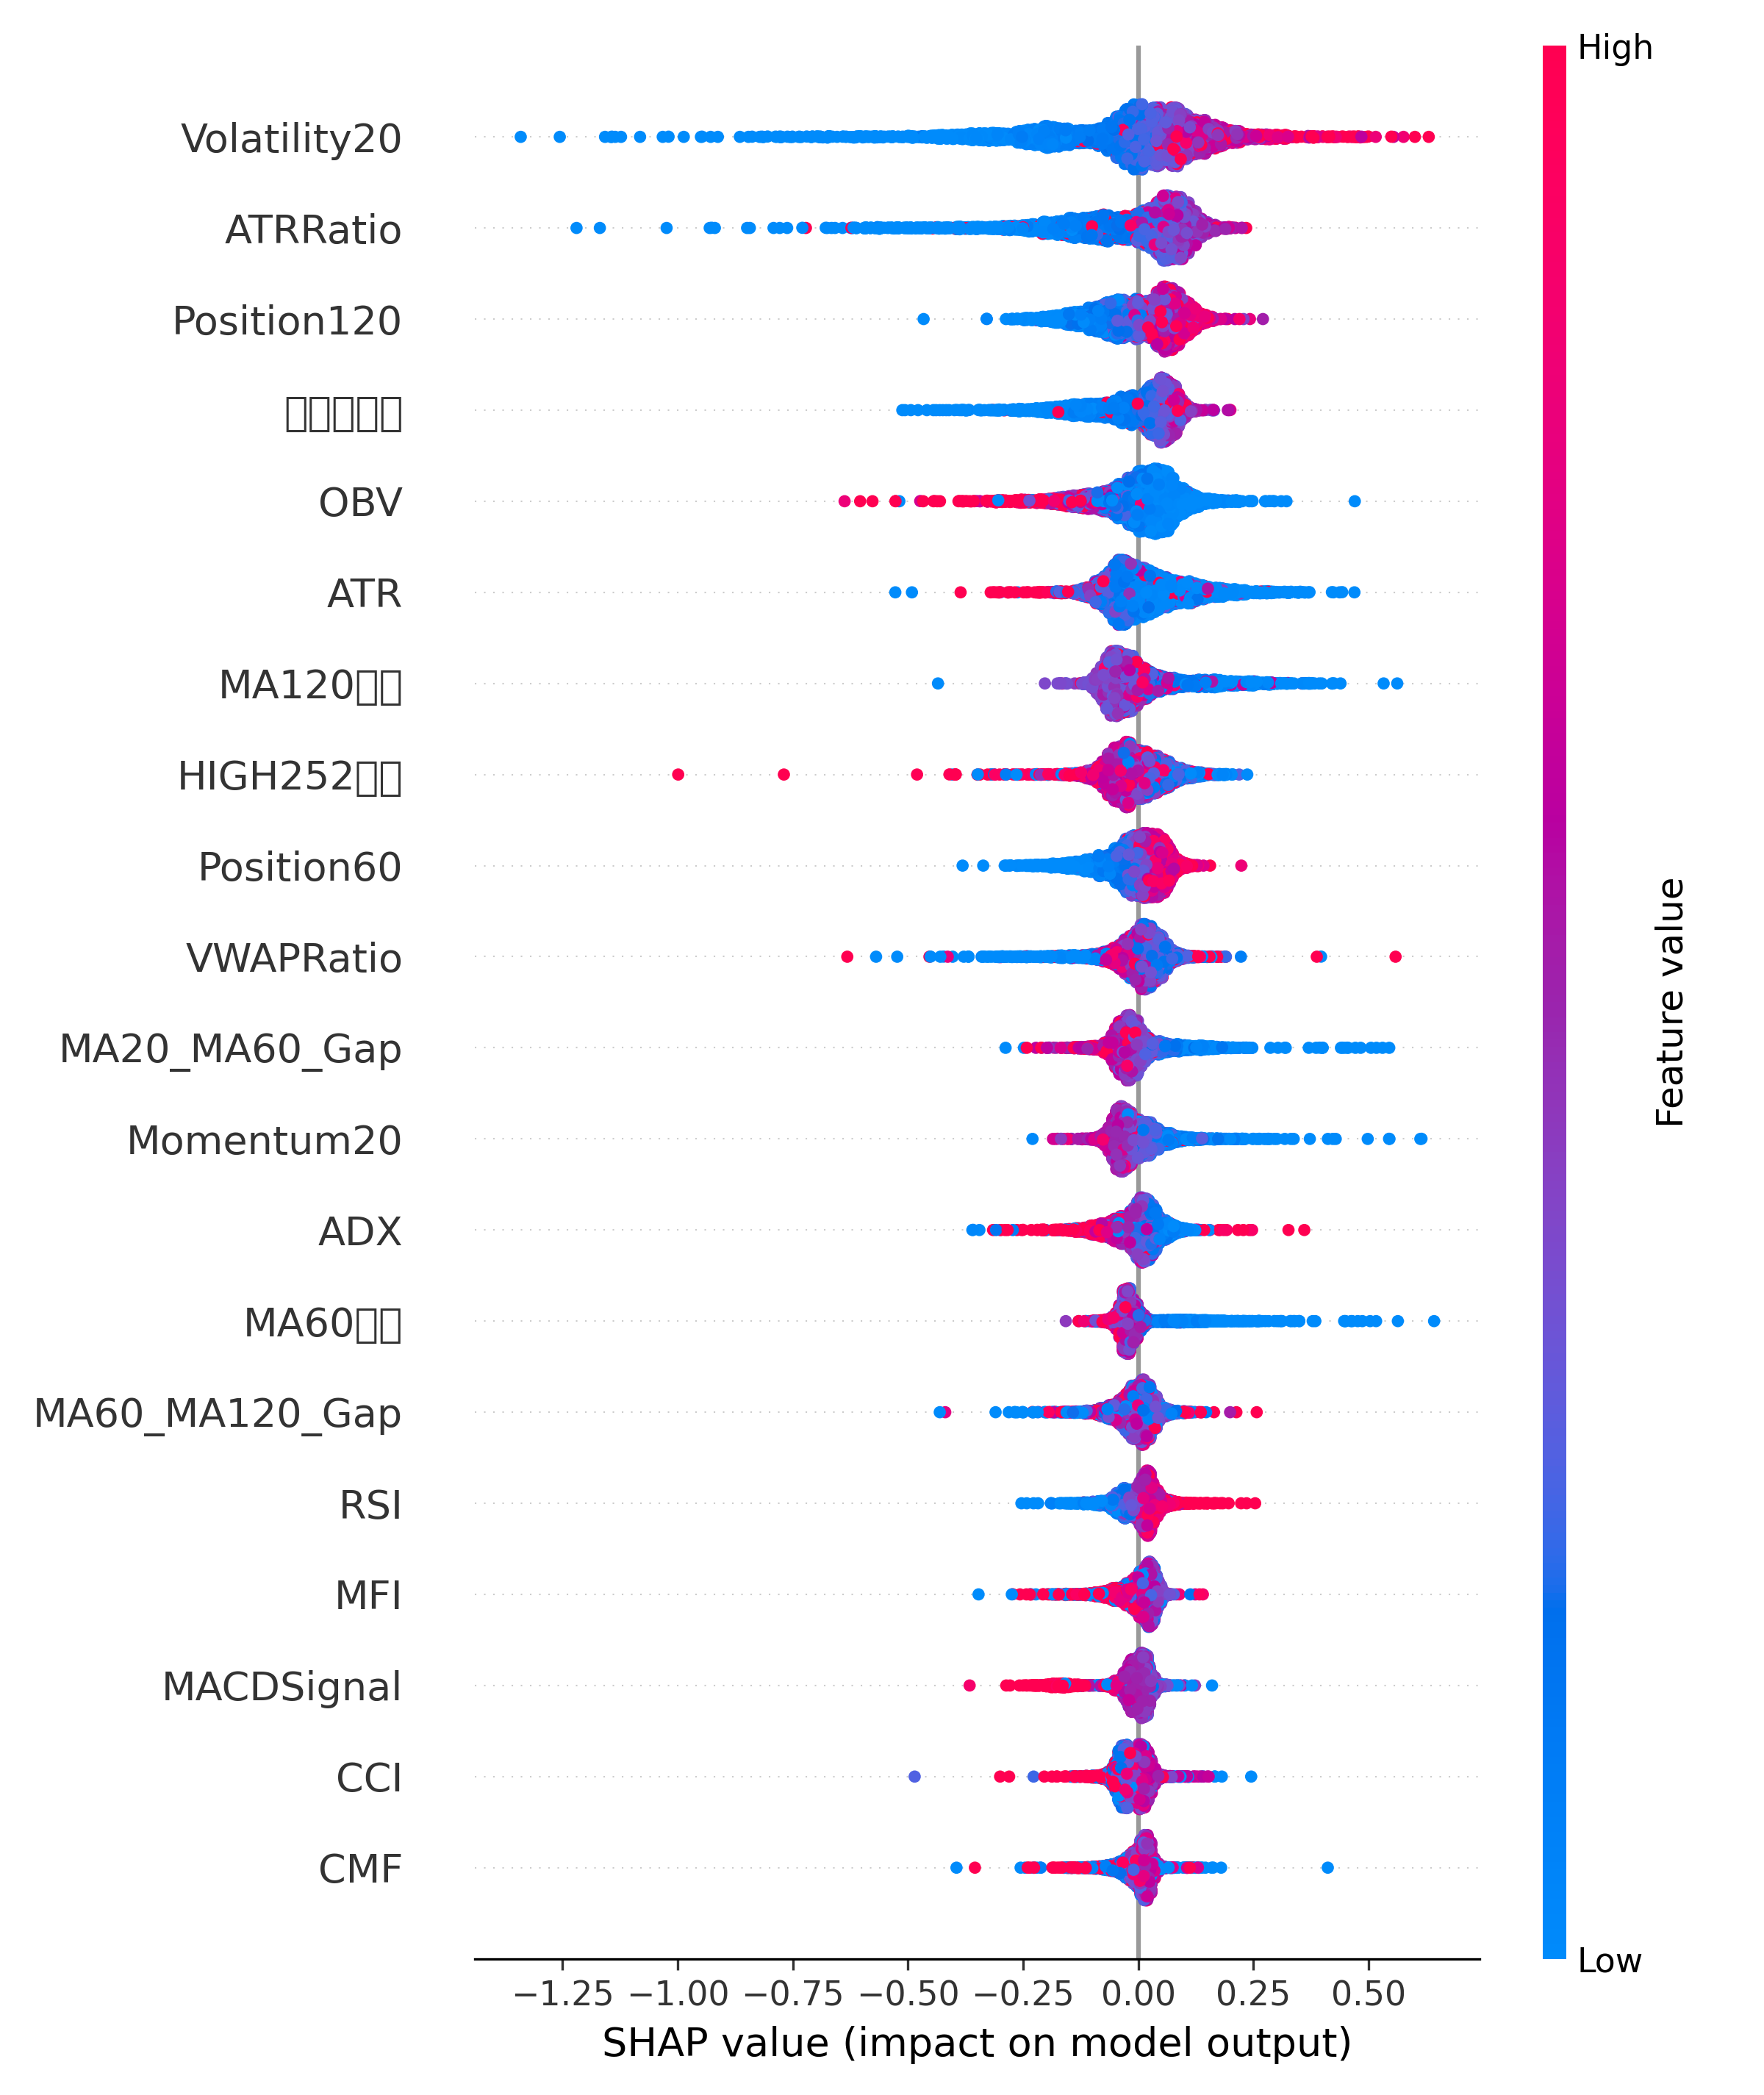
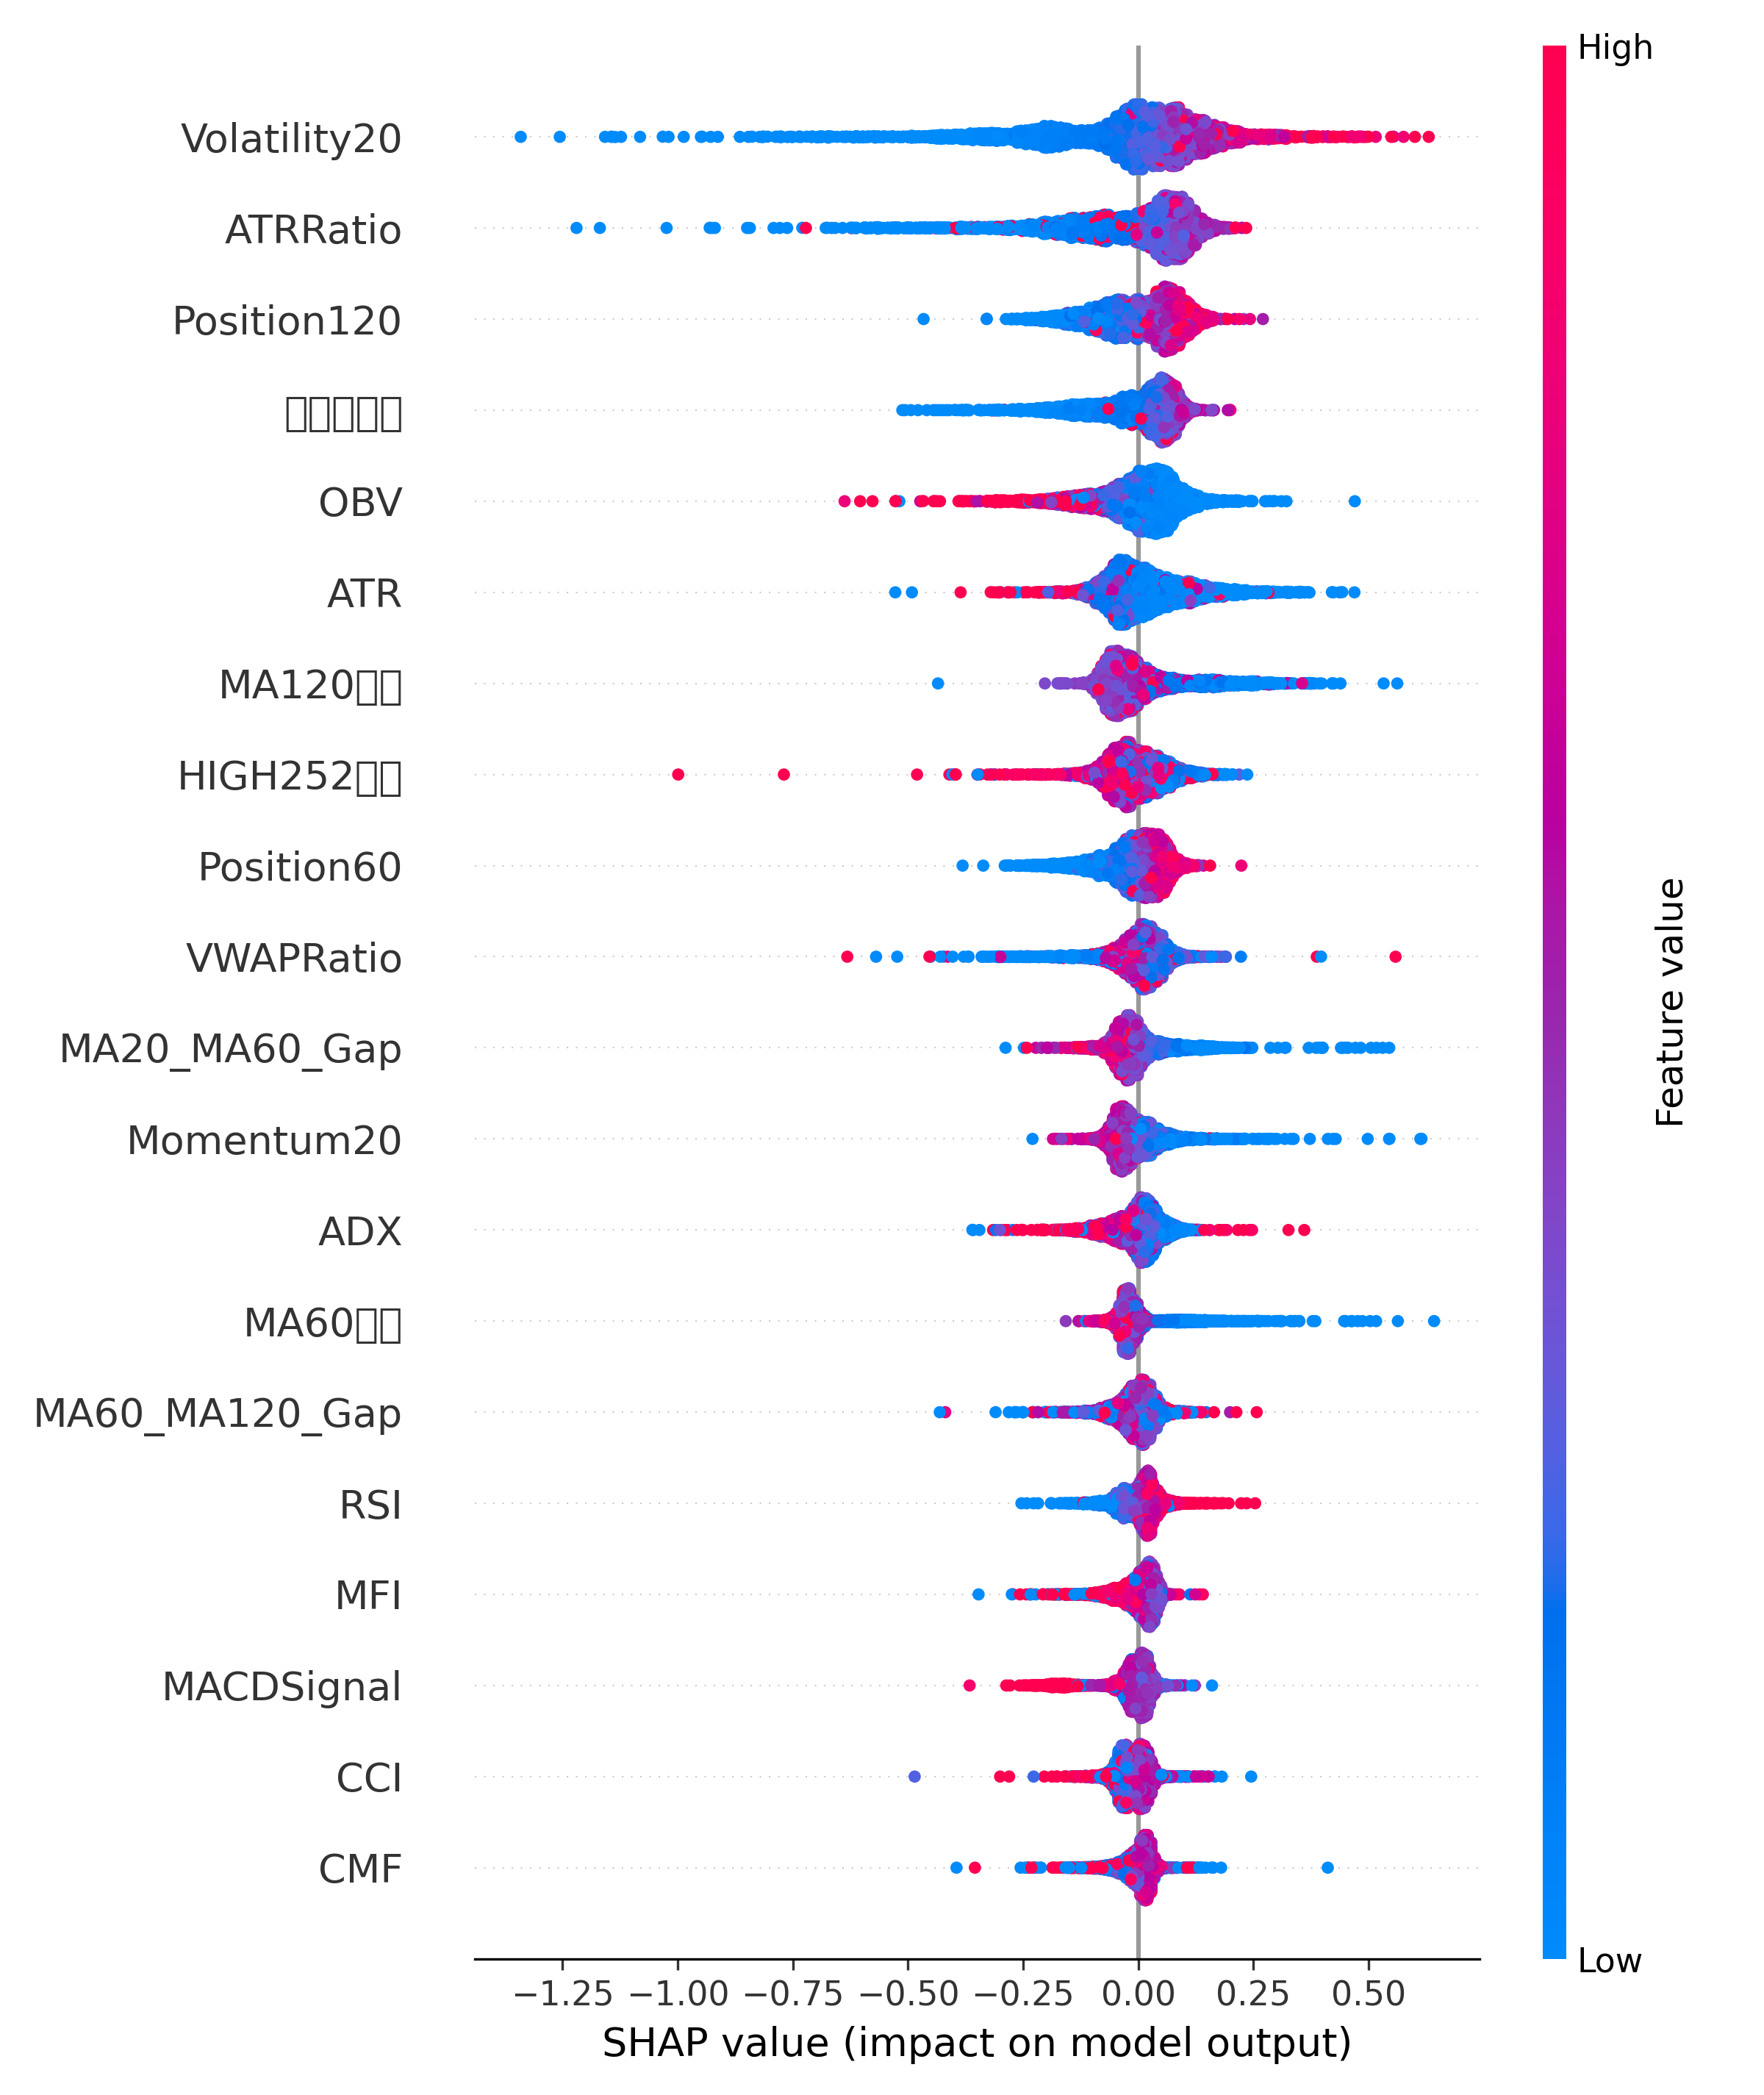
feat: add threshold evaluation for prediction confidence

Changed region(s): [[0.5625, 0.0312, 0.7188, 0.9056], [0.75, 0.0625, 0.7812, 0.0937]]

diff --git a/train_xgboost_gridsearch.py b/train_xgboost_gridsearch.py
@@ -115,7 +115,47 @@ def show_prediction_probability(model, X_test):
     print(result.head(20))
 
 
+def evaluate_threshold(model, X_test, y_test):
 
+    probability = model.predict_proba(X_test)[:, 1]
+
+    print()
+    print("===== Threshold Evaluation =====")
+
+    print(
+        f"{'Threshold':<10}"
+        f"{'Accuracy':<12}"
+        f"{'Buy Count':<12}"
+    )
+
+    for threshold in [
+        0.50,
+        0.55,
+        0.60,
+        0.65,
+        0.70,
+        0.75,
+        0.80,
+        0.85,
+        0.90
+    ]:
+
+        prediction = (
+            probability >= threshold
+        ).astype(int)
+
+        accuracy = accuracy_score(
+            y_test,
+            prediction
+        )
+
+        buy_count = prediction.sum()
+
+        print(
+            f"{threshold:<10.2f}"
+            f"{accuracy:<12.4f}"
+            f"{buy_count:<12}"
+        )
 
 df = pd.read_csv("dataset.csv")
 
@@ -216,4 +256,10 @@ show_shap_summary(
 show_prediction_probability(
     model,
     X_test
+)
+
+evaluate_threshold(
+    model,
+    X_test,
+    y_test
 )